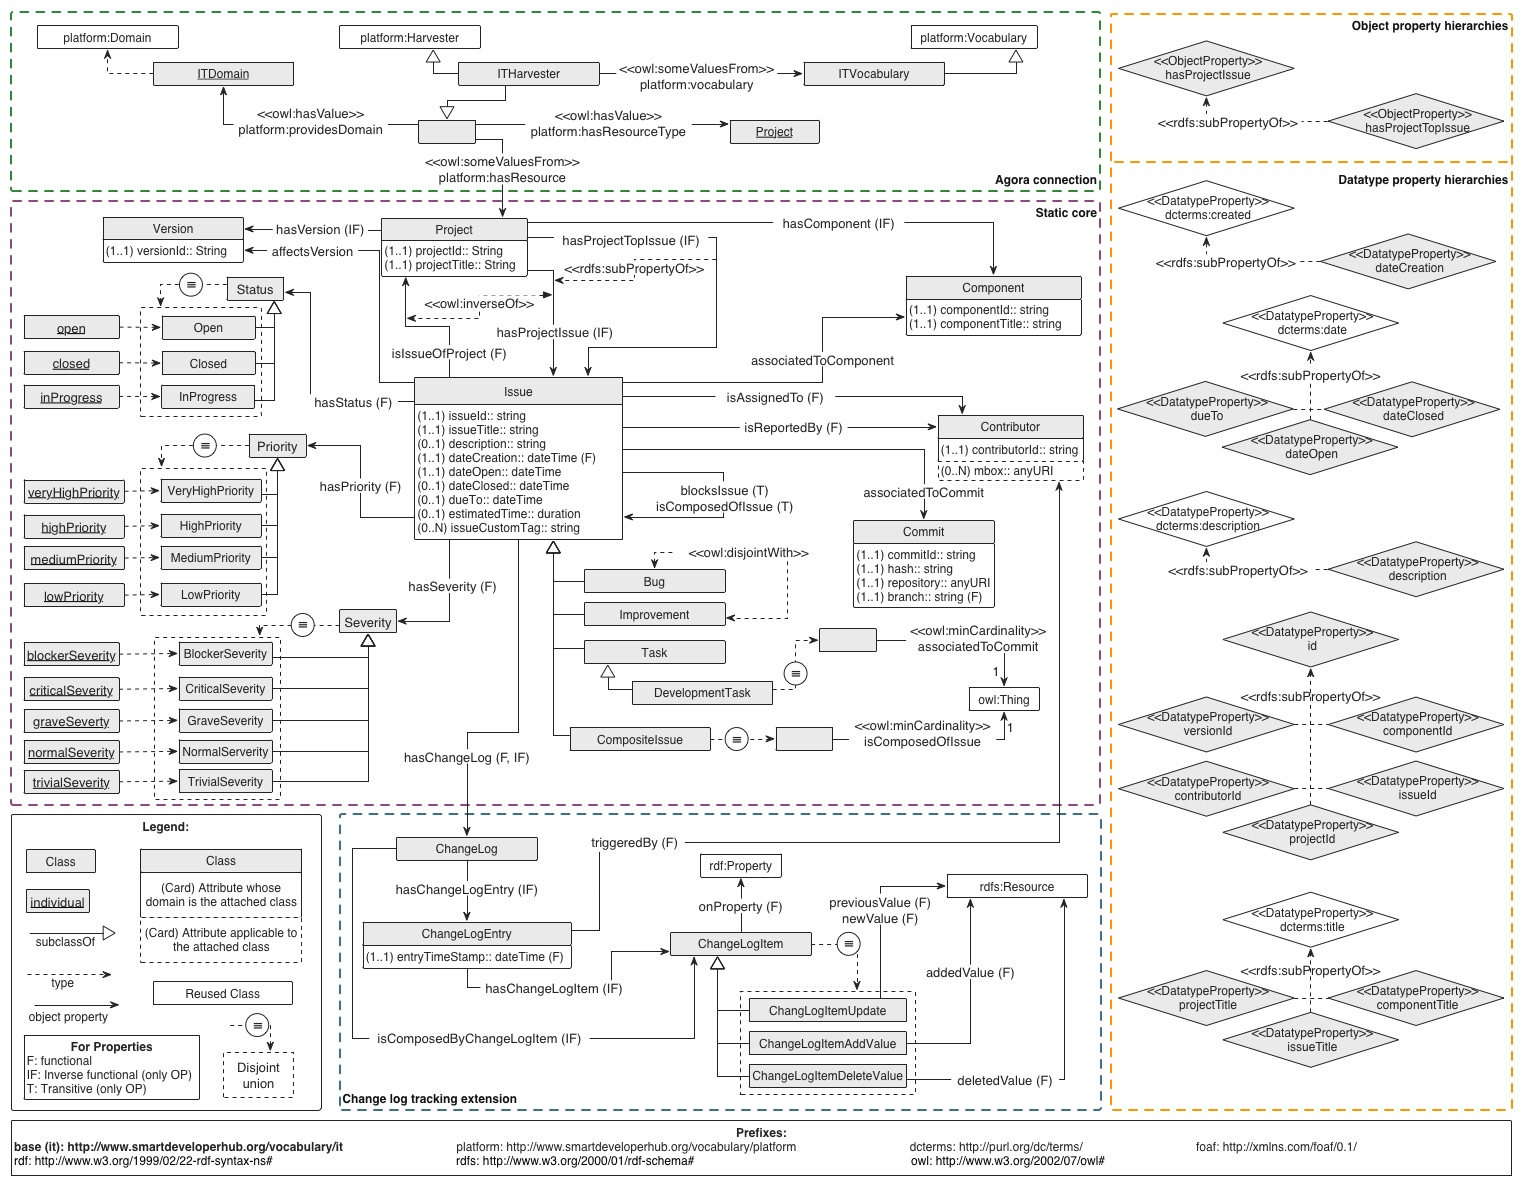
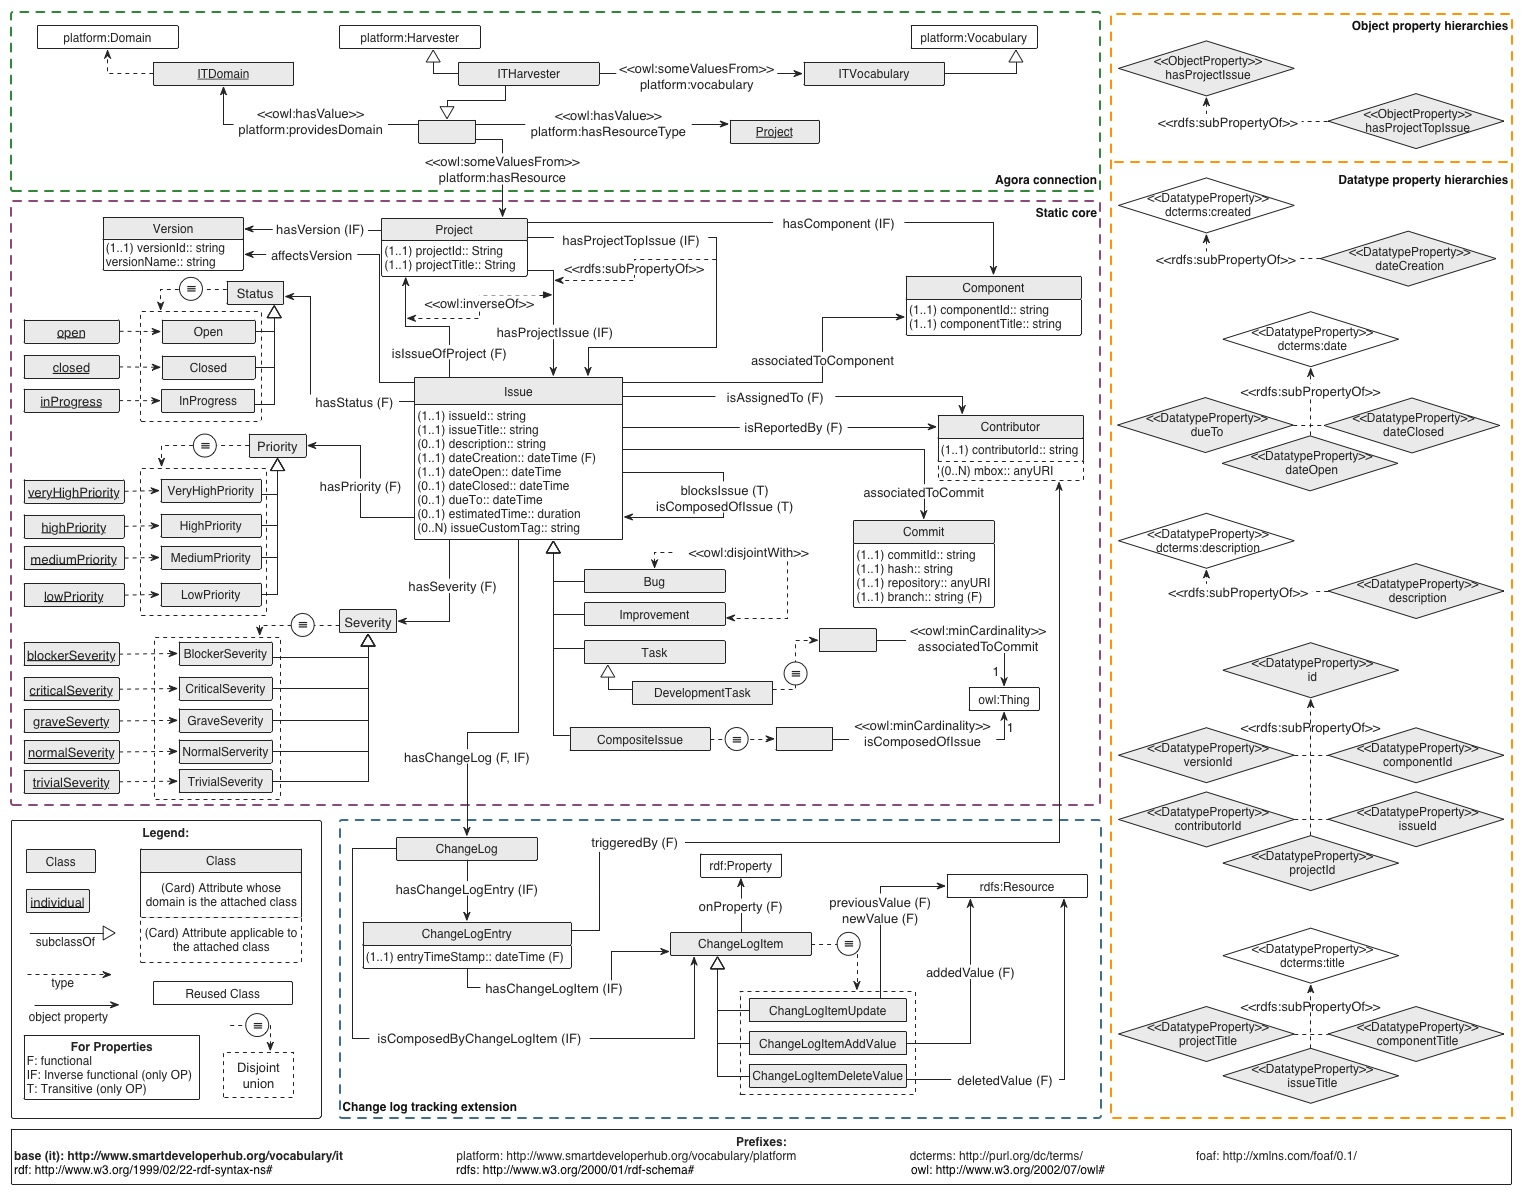
Version Name added
datatype property versionName added
updated documentation

ssssssssssssssssssssssssssssssssssssssssssssssssssssssssssssssssss

diff --git a/src/main/resources/documentation/v1/it/sections/crossref-en.html b/src/main/resources/documentation/v1/it/sections/crossref-en.html
@@ -440,6 +440,11 @@ A commit has to have one and only one hash, repository and branch.</span>
       <dl class="description">
          <dt>has super-classes</dt>
          <dd>
+            <a href="#repository"
+               title="http://www.smartdeveloperhub.org/vocabulary/it#repository">repository</a>
+            <sup class="type-dp" title="data property">dp</sup> 
+            <span class="logic">exactly</span> 1</dd>
+         <dd>
             <a href="#hash"
                title="http://www.smartdeveloperhub.org/vocabulary/it#hash">hash</a>
             <sup class="type-dp" title="data property">dp</sup> 
@@ -452,11 +457,6 @@ A commit has to have one and only one hash, repository and branch.</span>
          <dd>
             <a href="#branch"
                title="http://www.smartdeveloperhub.org/vocabulary/it#branch">branch</a>
-            <sup class="type-dp" title="data property">dp</sup> 
-            <span class="logic">exactly</span> 1</dd>
-         <dd>
-            <a href="#repository"
-               title="http://www.smartdeveloperhub.org/vocabulary/it#repository">repository</a>
             <sup class="type-dp" title="data property">dp</sup> 
             <span class="logic">exactly</span> 1</dd>
          <dt>is in domain of</dt>
@@ -492,19 +492,21 @@ A commit has to have one and only one hash, repository and branch.</span>
       <dl class="description">
          <dt>has super-classes</dt>
          <dd>
-            <a href="#componentId"
-               title="http://www.smartdeveloperhub.org/vocabulary/it#componentId">component identifier</a>
+            <a href="#componentTitle"
+               title="http://www.smartdeveloperhub.org/vocabulary/it#componentTitle">component title</a>
             <sup class="type-dp" title="data property">dp</sup> 
             <span class="logic">exactly</span> 1</dd>
          <dd>
-            <a href="#componentTitle"
-               title="http://www.smartdeveloperhub.org/vocabulary/it#componentTitle">component title</a>
+            <a href="#componentId"
+               title="http://www.smartdeveloperhub.org/vocabulary/it#componentId">component identifier</a>
             <sup class="type-dp" title="data property">dp</sup> 
             <span class="logic">exactly</span> 1</dd>
          <dt>is in domain of</dt>
          <dd>
             <a href="#componentId"
                title="http://www.smartdeveloperhub.org/vocabulary/it#componentId">component identifier</a>
+            <sup class="type-dp" title="data property">dp</sup>, <a href="#componentTitle"
+               title="http://www.smartdeveloperhub.org/vocabulary/it#componentTitle">component title</a>
             <sup class="type-dp" title="data property">dp</sup>
          </dd>
          <dt>is in range of</dt>
@@ -759,18 +761,33 @@ A commit has to have one and only one hash, repository and branch.</span>
       <dl class="description">
          <dt>has super-classes</dt>
          <dd>
-            <a href="#isReportedBy"
-               title="http://www.smartdeveloperhub.org/vocabulary/it#isReportedBy">is reported by</a>
-            <sup class="type-op" title="object property">op</sup> 
-            <span class="logic">exactly</span> 1</dd>
-         <dd>
             <a href="#http://www.smartdeveloperhub.org/vocabulary/issueId"
                title="http://www.smartdeveloperhub.org/vocabulary/issueId">issue identifier</a>
             <sup class="type-dp" title="data property">dp</sup> 
             <span class="logic">exactly</span> 1</dd>
          <dd>
+            <a href="#isReportedBy"
+               title="http://www.smartdeveloperhub.org/vocabulary/it#isReportedBy">is reported by</a>
+            <sup class="type-op" title="object property">op</sup> 
+            <span class="logic">exactly</span> 1</dd>
+         <dd>
             <a href="#dateCreation"
                title="http://www.smartdeveloperhub.org/vocabulary/it#dateCreation">date creation</a>
+            <sup class="type-dp" title="data property">dp</sup> 
+            <span class="logic">exactly</span> 1</dd>
+         <dd>
+            <a href="#dueTo"
+               title="http://www.smartdeveloperhub.org/vocabulary/it#dueTo">issue due to</a>
+            <sup class="type-dp" title="data property">dp</sup> 
+            <span class="logic">max</span> 1</dd>
+         <dd>
+            <a href="#dateClosed"
+               title="http://www.smartdeveloperhub.org/vocabulary/it#dateClosed">date close</a>
+            <sup class="type-dp" title="data property">dp</sup> 
+            <span class="logic">max</span> 1</dd>
+         <dd>
+            <a href="#issueTitle"
+               title="http://www.smartdeveloperhub.org/vocabulary/it#issueTitle">issue title</a>
             <sup class="type-dp" title="data property">dp</sup> 
             <span class="logic">exactly</span> 1</dd>
          <dd>
@@ -779,28 +796,13 @@ A commit has to have one and only one hash, repository and branch.</span>
             <sup class="type-dp" title="data property">dp</sup> 
             <span class="logic">max</span> 1</dd>
          <dd>
-            <a href="#dueTo"
-               title="http://www.smartdeveloperhub.org/vocabulary/it#dueTo">issue due to</a>
-            <sup class="type-dp" title="data property">dp</sup> 
-            <span class="logic">max</span> 1</dd>
-         <dd>
             <a href="#dateOpen"
                title="http://www.smartdeveloperhub.org/vocabulary/it#dateOpen">date open</a>
             <sup class="type-dp" title="data property">dp</sup> 
             <span class="logic">exactly</span> 1</dd>
          <dd>
-            <a href="#issueTitle"
-               title="http://www.smartdeveloperhub.org/vocabulary/it#issueTitle">issue title</a>
-            <sup class="type-dp" title="data property">dp</sup> 
-            <span class="logic">exactly</span> 1</dd>
-         <dd>
             <a href="#description"
                title="http://www.smartdeveloperhub.org/vocabulary/it#description">issue description</a>
-            <sup class="type-dp" title="data property">dp</sup> 
-            <span class="logic">max</span> 1</dd>
-         <dd>
-            <a href="#dateClosed"
-               title="http://www.smartdeveloperhub.org/vocabulary/it#dateClosed">date close</a>
             <sup class="type-dp" title="data property">dp</sup> 
             <span class="logic">max</span> 1</dd>
          <dt>has sub-classes</dt>
@@ -857,6 +859,8 @@ A commit has to have one and only one hash, repository and branch.</span>
                title="http://www.smartdeveloperhub.org/vocabulary/it#dueTo">issue due to</a>
             <sup class="type-dp" title="data property">dp</sup>, <a href="#http://www.smartdeveloperhub.org/vocabulary/issueId"
                title="http://www.smartdeveloperhub.org/vocabulary/issueId">issue identifier</a>
+            <sup class="type-dp" title="data property">dp</sup>, <a href="#issueTitle"
+               title="http://www.smartdeveloperhub.org/vocabulary/it#issueTitle">issue title</a>
             <sup class="type-dp" title="data property">dp</sup>
          </dd>
          <dt>is in range of</dt>
@@ -938,19 +942,19 @@ A commit has to have one and only one hash, repository and branch.</span>
          </dd>
          <dd>
             <span class="dotted"
-                  title="http://www.smartdeveloperhub.org/vocabulary/platform#providesDomain">provides domain</span>
-            <sup class="type-op" title="object property">op</sup> 
-            <span class="logic">value</span> 
-            <a href="#ITDomain"
-               title="http://www.smartdeveloperhub.org/vocabulary/it#ITDomain">i t domain</a>
-         </dd>
-         <dd>
-            <span class="dotted"
                   title="http://www.smartdeveloperhub.org/vocabulary/platform#hasResourceType">has resource type</span>
             <sup class="type-op" title="object property">op</sup> 
             <span class="logic">value</span> 
             <a href="#Project"
                title="http://www.smartdeveloperhub.org/vocabulary/it#Project">Project</a>
+         </dd>
+         <dd>
+            <span class="dotted"
+                  title="http://www.smartdeveloperhub.org/vocabulary/platform#providesDomain">provides domain</span>
+            <sup class="type-op" title="object property">op</sup> 
+            <span class="logic">value</span> 
+            <a href="#ITDomain"
+               title="http://www.smartdeveloperhub.org/vocabulary/it#ITDomain">i t domain</a>
          </dd>
       </dl>
    </div>
@@ -1146,6 +1150,8 @@ A commit has to have one and only one hash, repository and branch.</span>
                title="http://www.smartdeveloperhub.org/vocabulary/it#hasComponent">hasComponent</a>
             <sup class="type-op" title="object property">op</sup>, <a href="#projectId"
                title="http://www.smartdeveloperhub.org/vocabulary/it#projectId">project identifier</a>
+            <sup class="type-dp" title="data property">dp</sup>, <a href="#projectTitle"
+               title="http://www.smartdeveloperhub.org/vocabulary/it#projectTitle">project title</a>
             <sup class="type-dp" title="data property">dp</sup>
          </dd>
          <dt>is in range of</dt>
@@ -1260,7 +1266,9 @@ A commit has to have one and only one hash, repository and branch.</span>
          <dd>
             <a href="#versionId"
                title="http://www.smartdeveloperhub.org/vocabulary/it#versionId">version identifier</a>
-            <sup class="type-dp" title="data property">dp</sup>
+            <sup class="type-dp" title="data property">dp</sup>, <a href="#versionName"
+               title="http://www.smartdeveloperhub.org/vocabulary/it#versionName">version name</a>
+            <sup class="type-op" title="object property">op</sup>
          </dd>
          <dt>is in range of</dt>
          <dd>
@@ -1399,6 +1407,10 @@ A commit has to have one and only one hash, repository and branch.</span>
       <li>
          <a href="#triggeredBy"
             title="http://www.smartdeveloperhub.org/vocabulary/it#triggeredBy">triggered by </a>
+      </li>
+      <li>
+         <a href="#versionName"
+            title="http://www.smartdeveloperhub.org/vocabulary/it#versionName">version name</a>
       </li>
    </ul>
    <div class="entity" id="addedValue">
@@ -2161,6 +2173,36 @@ This property allows asking for the change items that composed a change log skip
          </dl>
       </div>
    </div>
+   <div class="entity" id="versionName">
+      <h3>version name<sup class="type-op" title="object property">op</sup>
+         <span class="backlink"> back to <a href="#toc">ToC</a> or <a href="#objectproperties">Object Property ToC</a>
+         </span>
+      </h3>
+      <p>
+         <strong>IRI:</strong> http://www.smartdeveloperhub.org/vocabulary/it#versionName</p>
+      <div class="comment">
+         <span class="markdown">name of a given version</span>
+      </div>
+      <div class="description">
+         <dl>
+            <dt>has super-properties</dt>
+            <dd>
+               <span class="dotted"
+                     title="http://www.smartdeveloperhub.org/vocabulary/platform#name">name</span>
+            </dd>
+            <dt>has domain</dt>
+            <dd>
+               <a href="#Version"
+                  title="http://www.smartdeveloperhub.org/vocabulary/it#Version">Version</a>
+               <sup class="type-c" title="class">c</sup>
+            </dd>
+            <dt>is also defined as</dt>
+            <dd>
+               <a href="#versionName">data property</a>
+            </dd>
+         </dl>
+      </div>
+   </div>
 </div><div id="dataproperties">
    <h2>Data Properties</h2>
    <ul class="hlist">
@@ -2251,6 +2293,10 @@ This property allows asking for the change items that composed a change log skip
       <li>
          <a href="#versionId"
             title="http://www.smartdeveloperhub.org/vocabulary/it#versionId">version identifier</a>
+      </li>
+      <li>
+         <a href="#versionName"
+            title="http://www.smartdeveloperhub.org/vocabulary/it#versionName">version name</a>
       </li>
    </ul>
    <div class="entity" id="branch">
@@ -2357,6 +2403,16 @@ This property allows asking for the change items that composed a change log skip
             <dt>has super-properties</dt>
             <dd>
                <span class="dotted" title="http://purl.org/dc/terms/title">title</span>
+            </dd>
+            <dt>has domain</dt>
+            <dd>
+               <a href="#Component"
+                  title="http://www.smartdeveloperhub.org/vocabulary/it#Component">Component</a>
+               <sup class="type-c" title="class">c</sup>
+            </dd>
+            <dt>has range</dt>
+            <dd>
+               <span class="dotted" title="http://www.w3.org/2001/XMLSchema#string">string</span>
             </dd>
          </dl>
       </div>
@@ -2597,15 +2653,13 @@ This property allows asking for the change items that composed a change log skip
       </div>
       <div class="description">
          <dl>
-            <dt>has domain</dt>
-            <dd>
-               <a href="#Issue"
-                  title="http://www.smartdeveloperhub.org/vocabulary/it#Issue">Issue</a>
-               <sup class="type-c" title="class">c</sup>
-            </dd>
             <dt>has range</dt>
             <dd>
                <span class="dotted" title="http://www.w3.org/2001/XMLSchema#string">string</span>
+            </dd>
+            <dt>is also defined as</dt>
+            <dd>
+               <a href="#description">annotation property</a>
             </dd>
          </dl>
       </div>
@@ -2686,6 +2740,16 @@ This property allows asking for the change items that composed a change log skip
             <dd>
                <span class="dotted" title="http://purl.org/dc/terms/title">title</span>
             </dd>
+            <dt>has domain</dt>
+            <dd>
+               <a href="#Issue"
+                  title="http://www.smartdeveloperhub.org/vocabulary/it#Issue">Issue</a>
+               <sup class="type-c" title="class">c</sup>
+            </dd>
+            <dt>has range</dt>
+            <dd>
+               <span class="dotted" title="http://www.w3.org/2001/XMLSchema#string">string</span>
+            </dd>
          </dl>
       </div>
    </div>
@@ -2759,6 +2823,16 @@ This property allows asking for the change items that composed a change log skip
             <dt>has super-properties</dt>
             <dd>
                <span class="dotted" title="http://purl.org/dc/terms/title">title</span>
+            </dd>
+            <dt>has domain</dt>
+            <dd>
+               <a href="#Project"
+                  title="http://www.smartdeveloperhub.org/vocabulary/it#Project">Project</a>
+               <sup class="type-c" title="class">c</sup>
+            </dd>
+            <dt>has range</dt>
+            <dd>
+               <span class="dotted" title="http://www.w3.org/2001/XMLSchema#string">string</span>
             </dd>
          </dl>
       </div>
@@ -2857,6 +2931,29 @@ This property allows asking for the change items that composed a change log skip
             <dt>has range</dt>
             <dd>
                <span class="dotted" title="http://www.w3.org/2001/XMLSchema#string">string</span>
+            </dd>
+         </dl>
+      </div>
+   </div>
+   <div class="entity" id="versionName">
+      <h3>version name<sup class="type-op" title="object property">op</sup>
+         <span class="backlink"> back to <a href="#toc">ToC</a> or <a href="#dataproperties">Data Property ToC</a>
+         </span>
+      </h3>
+      <p>
+         <strong>IRI:</strong> http://www.smartdeveloperhub.org/vocabulary/it#versionName</p>
+      <div class="comment">
+         <span class="markdown">name of a given version</span>
+      </div>
+      <div class="description">
+         <dl>
+            <dt>has range</dt>
+            <dd>
+               <span class="dotted" title="http://www.w3.org/2001/XMLSchema#string">string</span>
+            </dd>
+            <dt>is also defined as</dt>
+            <dd>
+               <a href="#versionName">object property</a>
             </dd>
          </dl>
       </div>

diff --git a/src/main/resources/documentation/v1/it/index-en.html b/src/main/resources/documentation/v1/it/index-en.html
@@ -44,7 +44,7 @@ function loadHash() {
       $("#introduction").load("sections/introduction-en.html"); 
       $("#overview").load("sections/overview-en.html"); 
       $("#description").load("sections/description-en.html"); 
-      $("#references").load("sections/references-en.html"); 
+      $("#crossref").load("sections/crossref-en.html", null, loadHash); 
     });
     </script> 
   </head> 
@@ -59,7 +59,7 @@ function loadHash() {
 <dl><dt>Imported Ontologies:</dt>
 <dd><a property="owl:imports schema:mentions" resource="http://www.smartdeveloperhub.org/vocabulary/platform" href="http://www.smartdeveloperhub.org/vocabulary/platform">http://www.smartdeveloperhub.org/vocabulary/platform</a></dd></dl>
 
-<dl><dt>Download serialization:</dt><dd><a href="http://www.smartdeveloperhub.org/vocabulary/v1/it.ttl">TURTLE</a></dd></dl><dl>This work is licensed under a license: <a rel="license" href="http://www.apache.org/licenses/LICENSE-2.0">license name goes here</a>.</dl>
+<dl><dt>Download serialization:</dt><dd><a href="ontology.owl">TURTLE</a></dd></dl><dl>This work is licensed under a license: <a rel="license" href="http://www.apache.org/licenses/LICENSE-2.0">Apache License Version 2.0</a>.</dl>
 <span property="dc:license" resource="http://www.apache.org/licenses/LICENSE-2.0"></span>
 <hr/>
 </div>
@@ -88,7 +88,6 @@ function loadHash() {
      <div id="overview"></div>
      <div id="description"></div>
      <div id="crossref"></div>
-     <div id="references"></div>
 <div id="acknowledgements">
 <h2>5. Acknowledgements <span class="backlink"> back to <a href="#toc">ToC</a></span></h2>
 <p>The authors would like to thank <a href="http://www.essepuntato.it/">Silvio Peroni</a> for developing <a href="http://www.essepuntato.it/lode">LODE</a>, a Live OWL Documentation Environment, which is used for representing the Cross Referencing Section of this document and <a href="http://purl.org/net/dgarijo/">Daniel Garijo</a> for developing <a href="https://github.com/dgarijo/Widoco">Widoco</a>, the program used to create the document template used in this documentation.</p>

diff --git a/src/main/resources/documentation/v1/it/sections/overview-en.html b/src/main/resources/documentation/v1/it/sections/overview-en.html
@@ -27,7 +27,7 @@
 
 -->
 <h2>2. it: Overview <span class="backlink"> back to <a href="#toc">ToC</a></span></h2>
-<p>This section shows an overview of the clases, object properties, datatype properties and individuals defined in the ontology:</p>
+<p>Overview of the ontology goes here: a few sentences explaining the main concepts of the ontology</p>
 <h4>Classes</h4>
 <ul class="hlist">
    <li>
@@ -273,6 +273,10 @@
       <a href="#triggeredBy"
          title="http://www.smartdeveloperhub.org/vocabulary/it#triggeredBy">triggered by </a>
    </li>
+   <li>
+      <a href="#versionName"
+         title="http://www.smartdeveloperhub.org/vocabulary/it#versionName">version name</a>
+   </li>
 </ul><h4>Data Properties</h4><ul class="hlist">
    <li>
       <a href="#branch"
@@ -361,6 +365,10 @@
    <li>
       <a href="#versionId"
          title="http://www.smartdeveloperhub.org/vocabulary/it#versionId">version identifier</a>
+   </li>
+   <li>
+      <a href="#versionName"
+         title="http://www.smartdeveloperhub.org/vocabulary/it#versionName">version name</a>
    </li>
 </ul><h4>Named Individuals</h4><ul class="hlist">
    <li>
